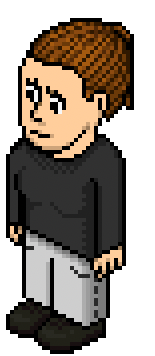
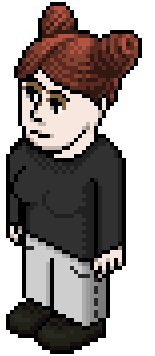
update text and swap to pops

diff --git a/faq.html b/faq.html
@@ -35,7 +35,7 @@
             <div class="singleColumn">
                 <h1>FAQ</h1>
                 <h3>What is a Habbo army?</h3>
-                <p>Unlike many other games, Habbo Hotel: Origins lacks the ability to level up, complete quests, and so
+                <p>Unlike many other games, Habbo Hotel: Origins does not give players the ability to level up, complete quests, and so
                     forth. To compensate for this, our army offers a variety of tasks and objectives. You can rise up our
                     more than 20 ranks, which are displayed in your Mission. You can chat with new friends in HQ, recruit
                     new members, join departments, give and receive trainings, participate in weekly meetings, attend our
